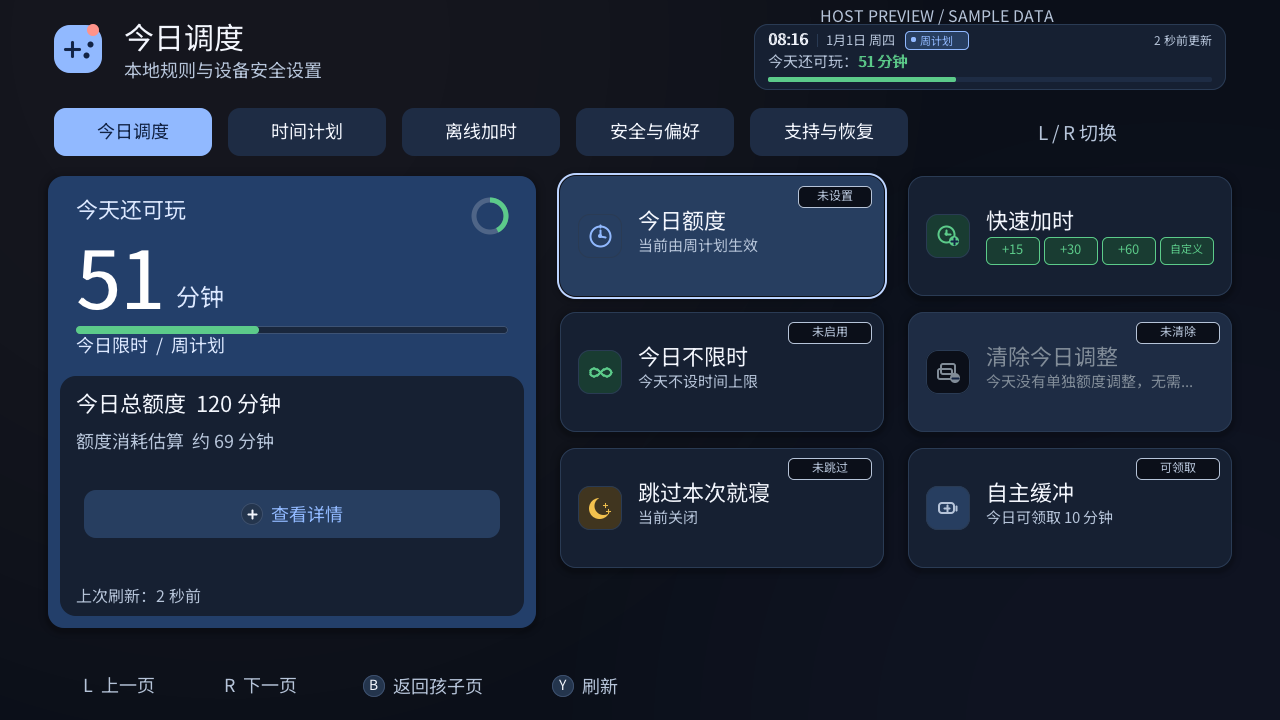
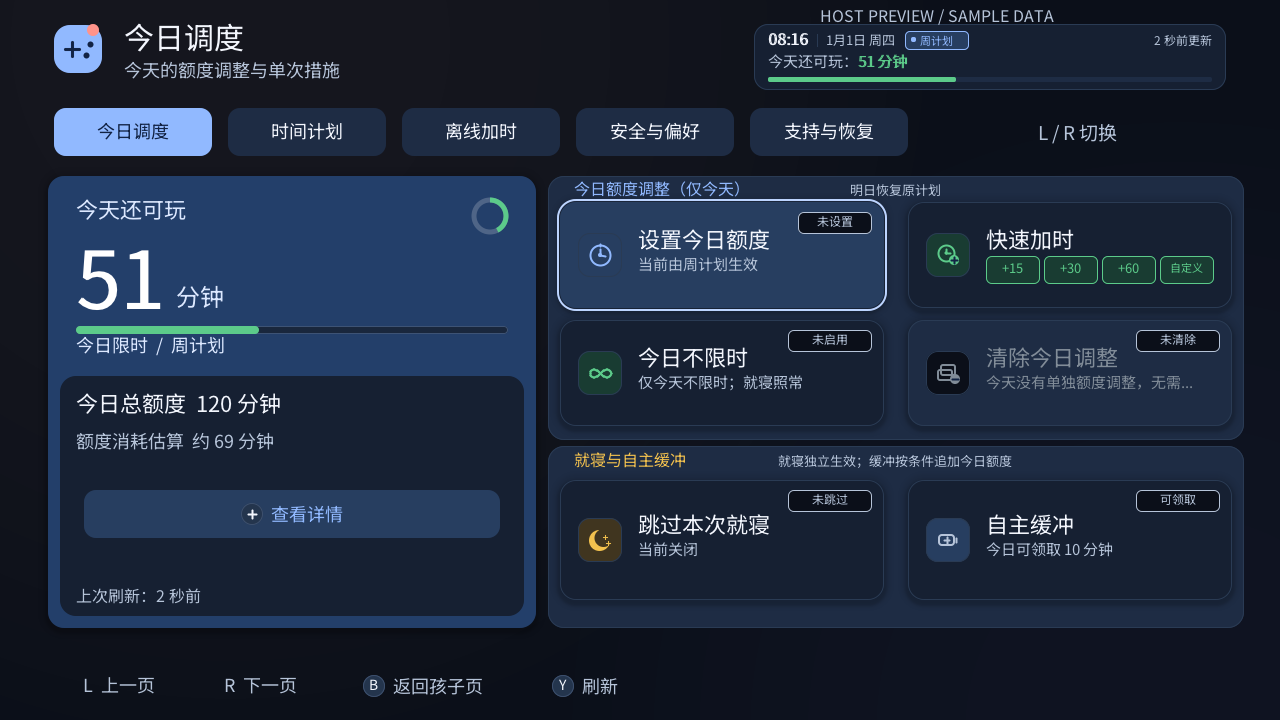
feat(ui): 优化今日调度卡片分组与浮窗长按反馈
- NRO 今日调度页操作卡划分为“今日额度调整（仅今天）”与“就寝与自主缓冲”两组面板，明确次日恢复原计划及就寝独立生效规则，并优化卡片排版布局
- Overlay 引入 PtcOverlayHoldState 状态管理，在高风险兑换确认按钮与需长按的家长动作卡内实时绘制 1 秒进度条
- 浮窗长按在松开、取消、切换动作、动作不可用或离开页面时自动清零，防止重复触发提交
- 补充 Overlay 长按进度单测与 NRO 今日调度分组容器及卡片无重叠命中测试
- 同步更新使用指南、协议规范、测试文档及家长端暗色主题预览截图

Changed region(s): [[0.4062, 0.2444, 0.9688, 0.8861], [0.0938, 0.0611, 0.2812, 0.1222]]

diff --git a/companion/overlay/source/main.cpp b/companion/overlay/source/main.cpp
@@ -350,22 +350,22 @@ public:
                 preview_ready_ = false;
                 preview_changed_ = false;
                 pending_code_[0] = '\0';
-                confirm_hold_ms_ = 0;
+                ptc_overlay_hold_reset(&confirm_hold_);
                 ptc_overlay_input_init(input_);
             } else if (touch_confirm && dangerous) {
                 touch_hold_warning_ = true;
+                ptc_overlay_hold_reset(&confirm_hold_);
             } else if ((!dangerous && ((keysDown & (HidNpadButton_A | HidNpadButton_Plus)) || touch_confirm))) {
                 touch_hold_warning_ = false;
+                ptc_overlay_hold_reset(&confirm_hold_);
                 (void)begin_preview_request(true);
             } else if (dangerous && (keysHeld & HidNpadButton_A)) {
-                confirm_hold_ms_ += input_elapsed_ms > 0 ? input_elapsed_ms : 0;
-                if (confirm_hold_ms_ >= 1000) {
-                    confirm_hold_ms_ = 0;
+                if (ptc_overlay_hold_update(&confirm_hold_, true, input_elapsed_ms, 1000)) {
                     touch_hold_warning_ = false;
                     (void)begin_preview_request(true);
                 }
             } else {
-                confirm_hold_ms_ = 0;
+                ptc_overlay_hold_reset(&confirm_hold_);
             }
             prev_touch_down_ = touch_down;
             return true;
@@ -698,6 +698,7 @@ public:
     void open_parent_pin()
     {
         parent_view_ = ParentView::Pin;
+        ptc_overlay_hold_reset(&confirm_hold_);
         parent_authorized_ = false;
         std::memset(pin_, 0, sizeof(pin_));
         pin_length_ = 0;
@@ -755,7 +756,7 @@ public:
         last_request_kind_ = kind;
         parent_view_ = ParentView::Result;
         parent_action_succeeded_ = false;
-        confirm_hold_ms_ = 0;
+        ptc_overlay_hold_reset(&confirm_hold_);
         request_started_tick_ = armGetSystemTick();
         last_elapsed_ms_ = 0;
         error_ = status != PTC_COMPANION_OK;
@@ -843,6 +844,7 @@ public:
             return true;
         }
         if (parent_view_ == ParentView::Actions) {
+            bool action_changed = false;
             if (touch_pressed && tx >= cx + 246 && tx < cx + PTC_OVERLAY_CONTENT_W - 12 &&
                 ty >= cy + 58 && ty < cy + 104) keysDown |= HidNpadButton_Y;
             if ((keysDown & HidNpadButton_Y) && !bridge_->waiting)
@@ -855,7 +857,8 @@ public:
                         ty >= cy + 150 + index * 57 && ty < cy + 200 + index * 57) {
                         const bool was_selected = parent_action_ == index;
                         parent_action_ = index;
-                        confirm_hold_ms_ = 0;
+                        ptc_overlay_hold_reset(&confirm_hold_);
+                        action_changed = true;
                         if (was_selected && (index == PTC_OVERLAY_PARENT_ADD_MINUTES ||
                             index == PTC_OVERLAY_PARENT_SKIP_BEDTIME)) keysDown |= HidNpadButton_A;
                         break;
@@ -870,15 +873,18 @@ public:
             if (direction & PTC_OVERLAY_BUTTON_UP) {
                 parent_action_ = (parent_action_ + PTC_OVERLAY_PARENT_ACTION_COUNT - 1) %
                     PTC_OVERLAY_PARENT_ACTION_COUNT;
-                confirm_hold_ms_ = 0;
+                ptc_overlay_hold_reset(&confirm_hold_);
+                action_changed = true;
             }
             if (direction & PTC_OVERLAY_BUTTON_DOWN) {
                 parent_action_ = (parent_action_ + 1) % PTC_OVERLAY_PARENT_ACTION_COUNT;
-                confirm_hold_ms_ = 0;
+                ptc_overlay_hold_reset(&confirm_hold_);
+                action_changed = true;
             }
             if (keysDown & HidNpadButton_B) {
                 parent_authorized_ = false;
                 parent_view_ = ParentView::Child;
+                ptc_overlay_hold_reset(&confirm_hold_);
             } else if (!parent_action_reason(static_cast<PtcOverlayParentAction>(parent_action_)) &&
                        (parent_action_ == PTC_OVERLAY_PARENT_ADD_MINUTES ||
                         parent_action_ == PTC_OVERLAY_PARENT_SKIP_BEDTIME) &&
@@ -887,11 +893,11 @@ public:
             } else if (!parent_action_reason(static_cast<PtcOverlayParentAction>(parent_action_)) &&
                        (parent_action_ != PTC_OVERLAY_PARENT_ADD_MINUTES &&
                         parent_action_ != PTC_OVERLAY_PARENT_SKIP_BEDTIME) &&
-                       (keysHeld & HidNpadButton_A)) {
-                confirm_hold_ms_ += elapsed_ms > 0 ? elapsed_ms : 0;
-                if (confirm_hold_ms_ >= 1000) (void)submit_parent_action();
+                       !action_changed && (keysHeld & HidNpadButton_A)) {
+                if (ptc_overlay_hold_update(&confirm_hold_, true, elapsed_ms, 1000))
+                    (void)submit_parent_action();
             } else {
-                confirm_hold_ms_ = 0;
+                ptc_overlay_hold_reset(&confirm_hold_);
             }
             return true;
         }
@@ -1113,6 +1119,14 @@ public:
         draw_outline(renderer, cx + 170, cy + 500, 160, 50, 2, FOCUS_BORDER);
         renderer->drawString(dangerous ? "长按 A 确认" : "A 确认", false,
                              cx + 202, cy + 530, 14, renderer->a(TEXT_COLOR));
+        if (dangerous) {
+            const int progress = confirm_hold_.fired ? 0 :
+                ptc_overlay_hold_progress(&confirm_hold_, 1000);
+            renderer->drawRect(cx + 176, cy + 541, 148, 4, renderer->a(CARD_COLOR));
+            if (progress > 0)
+                renderer->drawRect(cx + 176, cy + 541, 148 * progress / 1000, 4,
+                    renderer->a(ERROR_COLOR));
+        }
     }
 
     void draw_code_success(tsl::gfx::Renderer *renderer, s32 cx, s32 cy, s32 cw)
@@ -1231,6 +1245,14 @@ public:
                     renderer->a(reason ? MUTED_COLOR : TEXT_COLOR), 310);
                 if (reason) renderer->drawString(reason, false, cx + 24, y + 40, 11,
                     renderer->a(WAITING_COLOR), 305);
+                if (selected && !reason && i != PTC_OVERLAY_PARENT_ADD_MINUTES &&
+                    i != PTC_OVERLAY_PARENT_SKIP_BEDTIME) {
+                    const int progress = ptc_overlay_hold_progress(&confirm_hold_, 1000);
+                    renderer->drawRect(cx + 20, y + 44, cw - 40, 3, renderer->a(CARD_COLOR));
+                    if (progress > 0)
+                        renderer->drawRect(cx + 20, y + 44, (cw - 40) * progress / 1000, 3,
+                            renderer->a(ERROR_COLOR));
+                }
             }
             const auto selected = static_cast<PtcOverlayParentAction>(parent_action_);
             const char *reason = parent_action_reason(selected);
@@ -1635,7 +1657,7 @@ private:
     bool result_failed_ = false;
     bool recovery_active_ = false;
     bool touch_hold_warning_ = false;
-    int confirm_hold_ms_ = 0;
+    PtcOverlayHoldState confirm_hold_{};
     char pending_code_[9]{};
     PtcPendingRedemption pending_redemption_{};
     u64 recovery_last_poll_tick_ = 0;

diff --git a/companion/nro/ui_render_pages.c b/companion/nro/ui_render_pages.c
@@ -1,10 +1,10 @@
 #include "ui_render_internal.h"
 
 static const UiAction TODAY_ACTIONS[] = {
-    {"今日额度", "当前由规则计划决定", UI_ACCENT, UI_ACTION_ICON_CLOCK, UI_ACTION_VISUAL_NONE},
+    {"设置今日额度", "当前由规则计划决定", UI_ACCENT, UI_ACTION_ICON_CLOCK, UI_ACTION_VISUAL_NONE},
     {"快速加时", "", UI_SUCCESS, UI_ACTION_ICON_ADD_TIME, UI_ACTION_VISUAL_QUICK_ADD},
-    {"今日不限时", "今天不设时间上限", UI_SUCCESS, UI_ACTION_ICON_INFINITY, UI_ACTION_VISUAL_NONE},
-    {"清除今日调整", "恢复下级额度规则", UI_MUTED, UI_ACTION_ICON_CLEAR_OVERRIDE, UI_ACTION_VISUAL_NONE},
+    {"今日不限时", "仅今天不限时；就寝照常", UI_SUCCESS, UI_ACTION_ICON_INFINITY, UI_ACTION_VISUAL_NONE},
+    {"清除今日调整", "移除今日调整，恢复原计划", UI_MUTED, UI_ACTION_ICON_CLEAR_OVERRIDE, UI_ACTION_VISUAL_NONE},
     {"跳过本次就寝", "当前关闭", UI_WARNING, UI_ACTION_ICON_MOON, UI_ACTION_VISUAL_NONE},
     {"自主缓冲", "当前关闭", UI_MUTED, UI_ACTION_ICON_BUFFER, UI_ACTION_VISUAL_NONE},
 };
@@ -329,6 +329,16 @@ static void draw_today_status(uint32_t *pixels, uint32_t stride, const PtcUiMode
     ptc_ui_format_today_adjustment_status(model, now, adjustment_badge, sizeof(adjustment_badge),
                                           adjustment_detail, sizeof(adjustment_detail));
     draw_parent_home_summary(pixels, stride, model);
+    UiRect quota_group = {548, 176, 696, 264};
+    UiRect other_group = {548, 446, 696, 182};
+    fill_round_rect(pixels, stride, quota_group, 16, UI_RAISED);
+    draw_rect_outline(pixels, stride, quota_group, 16, 1, UI_BORDER);
+    draw_text(pixels, stride, 574, 195, "今日额度调整（仅今天）", 16, UI_ACCENT);
+    draw_text(pixels, stride, 850, 195, "明日恢复原计划", 13, UI_MUTED);
+    fill_round_rect(pixels, stride, other_group, 16, UI_RAISED);
+    draw_rect_outline(pixels, stride, other_group, 16, 1, UI_BORDER);
+    draw_text(pixels, stride, 574, 466, "就寝与自主缓冲", 16, UI_WARNING);
+    draw_text(pixels, stride, 778, 466, "就寝独立生效；缓冲按条件追加今日额度", 13, UI_MUTED);
     for (int index = 0; index < 6; ++index) {
         UiRect box = to_uirect(ptc_ui_today_card_rect(index));
         bool focused = !model->parent_footer_focused && model->selected_index == index;
@@ -506,7 +516,9 @@ void draw_parent(uint32_t *pixels, uint32_t stride, const PtcUiModel *model)
     }
     draw_header(pixels, stride, title,
         model->parent_page == PTC_UI_PARENT_SUPPORT ? "兼容状态、诊断与安全恢复" :
-        (model->parent_page == PTC_UI_PARENT_PLAN ? "额度规则与并行就寝计划" : "本地规则与设备安全设置"));
+        (model->parent_page == PTC_UI_PARENT_PLAN ? "额度规则与并行就寝计划" :
+         (model->parent_page == PTC_UI_PARENT_TODAY ? "今天的额度调整与单次措施" :
+          "本地规则与设备安全设置")));
     draw_time_status_bar(pixels, stride, model);
     draw_tabs(pixels, stride, model);
     if (!plan_subpage && model->parent_page != PTC_UI_PARENT_TODAY) {

diff --git a/tests/c/test_host_core.c b/tests/c/test_host_core.c
@@ -842,6 +842,41 @@ static void test_overlay_request_action_gate(void)
                "overlay blocks overlapping requests while preserving local input");
 }
 
+static void test_overlay_hold_progress(void)
+{
+    PtcOverlayHoldState hold = {0};
+    check_int(ptc_overlay_hold_progress(&hold, 1000), 0, "hold starts with an empty progress bar");
+    check_true(!ptc_overlay_hold_update(&hold, true, 250, 1000),
+               "a short hold does not submit");
+    check_int(ptc_overlay_hold_progress(&hold, 1000), 250,
+              "hold progress follows elapsed milliseconds");
+    check_true(!ptc_overlay_hold_update(&hold, true, 749, 1000),
+               "hold remains incomplete before one second");
+    check_int(ptc_overlay_hold_progress(&hold, 1000), 999,
+              "progress does not reach full before the threshold");
+    check_true(ptc_overlay_hold_update(&hold, true, 1, 1000),
+               "hold submits exactly at one second");
+    check_int(ptc_overlay_hold_progress(&hold, 1000), 1000,
+              "completed progress fills the button");
+    check_true(!ptc_overlay_hold_update(&hold, true, 1000, 1000),
+               "continued hold cannot submit a second time");
+    check_true(!ptc_overlay_hold_update(&hold, false, 0, 1000),
+               "release clears the one-shot latch");
+    check_int(ptc_overlay_hold_progress(&hold, 1000), 0,
+              "release clears visible progress");
+    check_true(!ptc_overlay_hold_update(&hold, true, 600, 1000),
+               "a new hold can begin after release");
+    ptc_overlay_hold_reset(&hold);
+    check_int(ptc_overlay_hold_progress(&hold, 1000), 0,
+              "cancel or action switch clears visible progress");
+    check_true(!ptc_overlay_hold_update(&hold, false, 500, 1000),
+               "a disabled action cannot accumulate hold time");
+    check_true(ptc_overlay_hold_update(&hold, true, 2000, 1000),
+               "a delayed input frame still completes the hold once");
+    check_int(ptc_overlay_hold_progress(&hold, 1000), 1000,
+              "a delayed frame never overfills the button");
+}
+
 static void test_overlay_parent_actions_and_input(void)
 {
     PtcCompanionResultSummary summary;
@@ -2777,6 +2812,7 @@ int main(void)
     test_overlay_bridge_claim_daily_buffer();
     test_overlay_result_classification();
     test_overlay_request_action_gate();
+    test_overlay_hold_progress();
     test_overlay_parent_actions_and_input();
     test_pending_redemption_recovery_marker();
     test_overlay_layout_geometry();

diff --git a/tests/c/test_ui_state.c b/tests/c/test_ui_state.c
@@ -1948,12 +1948,22 @@ static void test_home_redesign(void)
     memset(&model, 0, sizeof(model));
     model.view = PTC_UI_PARENT;
     model.parent_page = PTC_UI_PARENT_TODAY;
+    const PtcUiRect quota_group = {548, 176, 696, 264};
+    const PtcUiRect other_group = {548, 446, 696, 182};
+    check_true(!rects_overlap(quota_group, other_group) &&
+               !rects_overlap(quota_group, ptc_ui_home_summary_rect(true)) &&
+               !rects_overlap(other_group, ptc_ui_home_summary_rect(true)),
+               "today section backgrounds do not overlap each other or the summary");
     for (int i = 0; i < 6; ++i) {
         PtcUiRect rect = ptc_ui_today_card_rect(i);
+        PtcUiRect group = i < 4 ? quota_group : other_group;
         check_int(ptc_ui_today_operation(i), expected[i], "today card maps to its named operation");
         check_hit(hit_center(&model, rect), PTC_UI_HIT_PARENT_CARD, i, "today card hit matches render position");
-        check_true(rect.h == 120 && !rects_overlap(rect, ptc_ui_home_summary_rect(true)),
-                   "today cards use the compact height and stay clear of the summary");
+        check_true(rect.h == (i < 4 ? 106 : 120) &&
+                   rect.x >= group.x && rect.x + rect.w <= group.x + group.w &&
+                   rect.y >= group.y + 24 && rect.y + rect.h <= group.y + group.h &&
+                   !rects_overlap(rect, ptc_ui_home_summary_rect(true)),
+                   "today cards fit below their section headings and stay clear of the summary");
         check_true(rect.y + rect.h < ptc_ui_notice_rect().y,
                    "every today card leaves room above the status capsule");
         for (int j = i + 1; j < 6; ++j)

diff --git a/companion/overlay/input_model.c b/companion/overlay/input_model.c
@@ -1,5 +1,6 @@
 #include "input_model.h"
 
+#include <stdint.h>
 #include <stdio.h>
 #include <string.h>
 
@@ -13,6 +14,37 @@ static const unsigned int DIRECTION_BUTTONS =
 const char *ptc_overlay_input_charset(void)
 {
     return CHARSET;
+}
+
+void ptc_overlay_hold_reset(PtcOverlayHoldState *hold)
+{
+    if (!hold) return;
+    hold->elapsed_ms = 0;
+    hold->fired = false;
+}
+
+bool ptc_overlay_hold_update(PtcOverlayHoldState *hold, bool held, int elapsed_ms, int required_ms)
+{
+    if (!hold) return false;
+    if (!held || required_ms <= 0) {
+        ptc_overlay_hold_reset(hold);
+        return false;
+    }
+    if (hold->fired) return false;
+    if (elapsed_ms > 0 && hold->elapsed_ms < required_ms) {
+        int remaining_ms = required_ms - hold->elapsed_ms;
+        hold->elapsed_ms += elapsed_ms >= remaining_ms ? remaining_ms : elapsed_ms;
+    }
+    if (hold->elapsed_ms < required_ms) return false;
+    hold->fired = true;
+    return true;
+}
+
+int ptc_overlay_hold_progress(const PtcOverlayHoldState *hold, int required_ms)
+{
+    if (!hold || required_ms <= 0 || hold->elapsed_ms <= 0) return 0;
+    if (hold->elapsed_ms >= required_ms) return 1000;
+    return (int)((int64_t)hold->elapsed_ms * 1000 / required_ms);
 }
 
 bool ptc_overlay_pin_mask(size_t length, char *out, size_t out_size)

diff --git a/companion/overlay/input_model.h b/companion/overlay/input_model.h
@@ -40,6 +40,15 @@ typedef struct {
     PtcOverlayDirectionRepeat direction_repeat;
 } PtcOverlayInput;
 
+typedef struct {
+    int elapsed_ms;
+    bool fired;
+} PtcOverlayHoldState;
+
+void ptc_overlay_hold_reset(PtcOverlayHoldState *hold);
+bool ptc_overlay_hold_update(PtcOverlayHoldState *hold, bool held, int elapsed_ms, int required_ms);
+int ptc_overlay_hold_progress(const PtcOverlayHoldState *hold, int required_ms);
+
 unsigned int ptc_overlay_direction_step(
     PtcOverlayDirectionRepeat *repeat,
     unsigned int buttons_down,

diff --git a/companion/nro/ui_layout.c b/companion/nro/ui_layout.c
@@ -218,7 +218,9 @@ PtcUiRect ptc_ui_home_summary_rect(bool parent)
 PtcUiRect ptc_ui_today_card_rect(int index)
 {
     if (index < 0 || index >= 6) return (PtcUiRect){0, 0, 0, 0};
-    return (PtcUiRect){560 + (index % 2) * 348, 176 + (index / 2) * 136, 324, 120};
+    return (PtcUiRect){560 + (index % 2) * 348,
+                       index < 4 ? 202 + (index / 2) * 118 : 480,
+                       324, index < 4 ? 106 : 120};
 }
 
 PtcUiRect ptc_ui_plan_card_rect(int index)

diff --git a/docs/协议.md b/docs/协议.md
@@ -443,6 +443,10 @@ NRO 和 Overlay 的兑换流程固定为“输入 → 非消费预览 → 确认
 
 Companion NRO 孩子首页以“今天还可玩”为主信息，右侧提供输入加时码和自主缓冲。`A` 输入、`X` 领取缓冲、`Y` 刷新、`B` 退出；`+` 或触摸“使用详情”打开只读弹窗，查看系统计时、运行状态和本机 7/30 天额度消耗估算。明天安排及规则来源保留在首页；“游戏明细暂不可用”保留在详情中。家长固定入口和自定义组合键优先级不变。
 
+今日调度右侧保持六张直达卡和原有操作顺序：前四张放在“今日额度调整（仅今天）”分组，后两张放在“就寝与自主缓冲”分组。分组文案必须说明次日恢复原计划、就寝独立生效，以及自主缓冲仅在符合资格时追加今日额度；“仅今天”不得暗示今日不限时会解除就寝限制。分组标题不是操作入口，触控只命中可见卡片。
+
+标准 Overlay 的高风险加时码兑换确认按钮及需长按的家长动作卡内部显示一秒进度；释放 `A`、取消、切换动作或离开页面立即清零，持续按住只提交一次。无需长按的动作不显示进度，高风险兑换仍只接受实体手柄长按，触摸确认仅提示使用手柄。此显示不改变请求协议、确认时长或 Device Lab 的两秒取证确认。
+
 家长“今日调度”页左侧显示额度摘要和详情入口，右侧以统一操作卡排列“设置今日总额度、快速加时、今日不限时、清除今日额度调整、跳过本次就寝、自主缓冲领取状态”。“设置今日总额度”必须显示动态状态与原因：生效中、会话内已清除、未设置、等待生效、状态待确认、控制已停用、恢复中或临时解除期间暂不计时；未设置时同时说明当前由临时额度计划、国家节假日或周计划中的哪一层生效。只有本次 NRO 会话已收到 `restore_today_policy` 成功结果时才显示“已清除”，不新增持久化历史；重启后规则不存在仍诚实显示“未设置”。新鲜状态确认没有 `today_override` 时清除卡使用禁用样式，手柄触发仅给出说明，不提交请求。快速加时先选 `+15/+30/+60/自定义` 再显示影响摘要并确认；自定义限制 1–120 分钟。清除操作只提交既有 `restore_today_policy` 并仅移除 `today_override`。“跳过本次就寝”卡只执行当前或下一个锁定实例的一次性跳过，不进入长期就寝计划管理；它固定执行状态刷新、锁定实例、再次验证管理 PIN、显示日期时间确认、提交 `skip_bedtime` 和刷新结果。状态新鲜度上限 120 秒，旧实例被后台拒绝时刷新并明确提示，不自动选择另一实例。`+` 或触摸“查看详情”打开今日详情；全局异常入口直接进入支持与恢复。
 
 今日额度编辑器的限时/不限时模式分别使用现有 `set_today_limit` 与 `disable_today_limit` 请求；快捷“今日不限时”仍可直达后者。不限时调整生效时今日额度卡显示“不限时”，快捷卡显示“已启用”。今日调度、时间计划的执行徽标只对新鲜状态宣称生效；过期时统一待确认。额度操作确认页提供手动刷新，且提交前再次读取 status 并重算影响；余额、已耗估算、规则来源或危险判定变化时重置长按进度，要求重新确认。刷新失败保留草稿且不得提交；刷新成功但已耗估算不可用时沿用未知风险长按规则。请求 schema 与 sysmodule 控制策略不变。

diff --git a/docs/使用指南.md b/docs/使用指南.md
@@ -73,9 +73,9 @@
 
 今日额度与就寝时间分别生效：设为“今日不限时”或增加额度不会跳过就寝限制；清除今日调整后，下级计划会重新生效，剩余时间可能减少。提交前请核对确认页显示的规则来源和预计结果。
 
-今日调度页包含六张统一操作卡与一个全屏详情面板：
+今日调度页包含六张直达卡与一个全屏详情面板。右侧前四张归入“今日额度调整（仅今天）”，次日恢复原计划；后两张归入“就寝与自主缓冲”：就寝独立生效，符合条件时自主缓冲才追加今日额度。
 
-1. **今日额度（设置今日总额度）**：
+1. **设置今日额度（设置今日总额度）**：
    - **状态徽标**：卡片右上角指示今日额度的执行状态，包括“生效中”、“不限时”、“未设置”（由下级长期计划决定）、“已清除”（本次会话内刚清除临时调整）、“等待生效”、“状态待确认”、“就寝立断”或“控制停用”。
    - **下级继承原因**：若今天未设置临时额度，动态副标题会明确说明当前由哪一层规则生效（例如“由每周常规计划决定”、“由国家法定休假决定”或“由临时日期额度计划决定”）。
    - **调整与安全确认**：按 `A` 键或触摸点击进入编辑器，可选择“限时”并设定总分钟数，或选择“今日不限时”；手柄用 `ZL/ZR` 切换模式。进入限时编辑器时，状态超过 120 秒或未确认会自动刷新；也可点按右侧“刷新最新状态”或按右摇杆 `R3` 手动刷新。按 `+` 保存时会再次读取主机状态：新总额度高于已玩时间便直接提交并关闭编辑器；新额度不高于已玩时间时显示危险确认并要求长按 1 秒。刷新失败或已玩时间不可用时保留输入，不提交。今日不限时、快速加时和清除今日调整仍按各自的确认流程操作。
@@ -238,6 +238,8 @@
 | 恢复安装前快照并停用 PlayWise | 长按手柄 `A` 1 秒确认 |
 
 就寝与每日额度限制先后出现时，应先跳过本次就寝或关闭计划，再根据重新读取的状态处理每日额度。操作失败后，按 `Y` 重新验证 PIN 才能重试；后台不可用时需从 SD 或外部环境排查。
+
+需要长按手柄 `A` 1 秒的加时码高风险兑换与家长动作，会在确认按钮或当前动作卡内显示进度条；松开、取消或切换动作即清零。危险兑换的触摸按钮只提示改用手柄，不会代替长按确认。
 
 ### 浮窗操作按键速查
 
